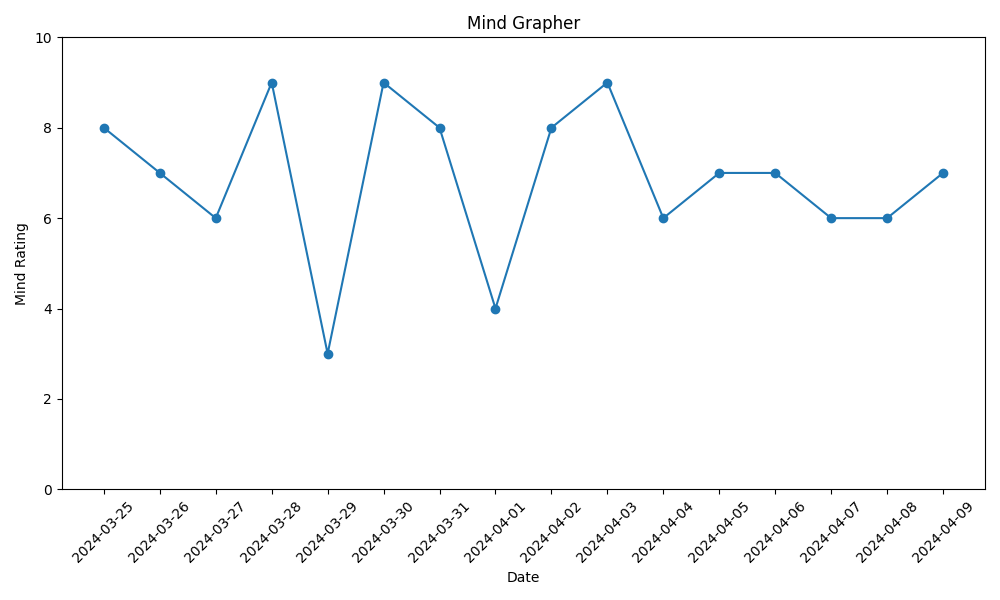
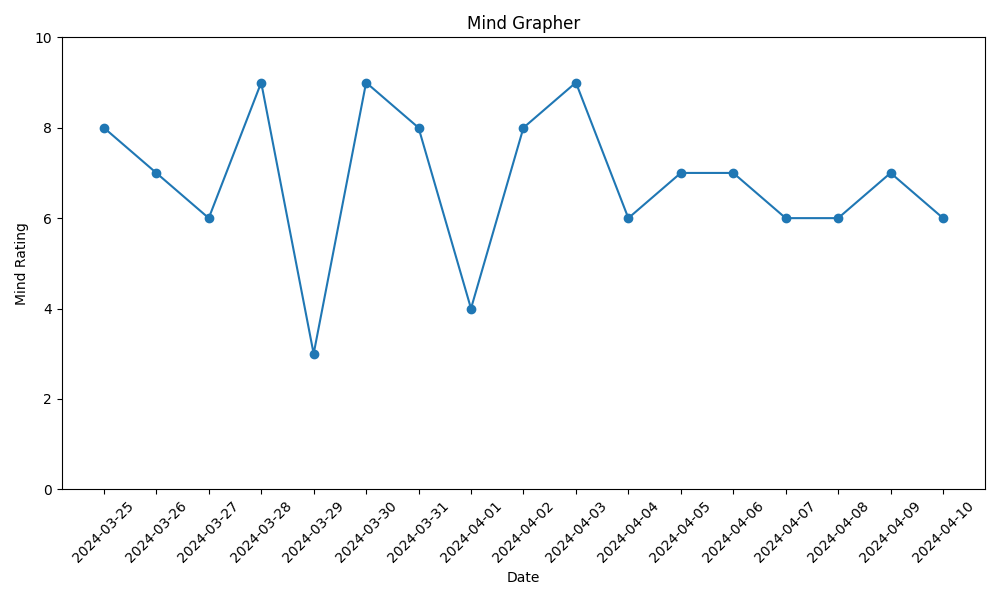
Update mind grapher daily

diff --git a/daily/2024-04-11.md b/daily/2024-04-11.md
@@ -1,0 +1,23 @@
+# How are you doing today?
+
+> This is a daily program written by the late Sibyl F.Partridge. I just read it from Dale Carnegie's book “How to Stop Worrying and Start Living”. Mental health is very important but it is often overlooked. I hope to remind myself how to live through daily self-check.
+ 
+- [ ] ***Just for today I will be happy***. This assumes that what Abraham Lincoln said is true, that “most folks are about as happy as they make up their minds to be”. Happiness is from within; it is not a matter of externals.
+
+- [ ] ***Just for today I will try to adjust myself to what is, and not try to adjust to everything to my own desires***. I will take my family, my business, and my luck as they come and fit myself to them.
+
+- [ ] ***Just for today I will take care of my body, I will exercise it, care for it, nourish it, not abuse it nor neglect it***, so that it will be a perfect machine for my bidding.
+
+- [ ] ***Just for today I will try to strengthen my mind***. I will learn something useful. I will not be a mental loafer. I will read something that requires effort, thought and concentration.
+
+- [ ] ***Just for today I will exercise my souls in three ways: I will do somebody a good turn and not get found out. I will do at least two things I don’t want to do, as William James suggests, just for exercise.***
+
+- [ ] ***Just for today I will be agreeable***. I will look as well as I can, dress as becomingly as possible, talk low, act courteously, be liberal with praise, criticize not at all, nor find fault with anything and not try to regulate nor improve anyone.
+
+- [ ] ***Just for today I will try to live through this day only, not to tackle my whole life problem at once***. I can do things for twelve hours that would appall me if I had to keep them up for a lifetime.
+
+- [ ] ***Just for today I will have a programme***. I will write down what I expect to do every hour. I may not follow it exactly, but I will have it. It will eliminate two pests, hurry and indecision.
+
+- [ ] ***Just for today I will have a quiet half-hour all by myself and relax***. In this half-hour sometimes I will think of God, so as to get a little more perspective into my life.
+
+- [ ] ***Just for today, I will be unafraid***, especially I will not be afraid to be happy, to enjoy what is beautiful, to love, and to believe that those I love, love me.

diff --git a/daily/2024-04-10.md b/daily/2024-04-10.md
@@ -1,4 +1,5 @@
 # How are you doing today?
+⭐⭐⭐⭐⭐⭐
 
 > This is a daily program written by the late Sibyl F.Partridge. I just read it from Dale Carnegie's book “How to Stop Worrying and Start Living”. Mental health is very important but it is often overlooked. I hope to remind myself how to live through daily self-check.
  
